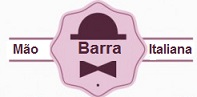
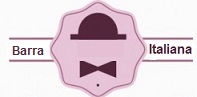
atualizei imagens e pagina tamanho 360

Changed region(s): [[0.3959, 0.4021, 0.6396, 0.5567], [0.0609, 0.433, 0.2437, 0.5876]]

diff --git a/index.html b/index.html
@@ -190,7 +190,7 @@
       <div class="row">
           <div class="col-lg-6 col-md-6 col-sm-6">
             <h2>Sobre Ateliê Malvinas<br/> </h2>
-            <p> O nome Malvina veio de sua mãe, e por isso que foi escolhido. O ateliê foi sempre um sonho, que hoje foi possível. E isso só aconkteceu
+            <p> O nome Malvina veio de sua mãe, e por isso que foi escolhido. O ateliê foi sempre um sonho, que hoje foi possível. E isso só aconteceu
               devido o trabalho bem feito.
             </p>
           </div>
@@ -207,15 +207,14 @@
           <div class="col-lg-6 col-md-6 col-sm-6">
 
             <h2>Nossa História<br/> </h2>
-            <p>Há quase três anos comecei a me especializar em consertos <br/>
-              de roupas. E nesse período comecei a atender consertos para <br/>
-              empresas e pessoas. Porém, como já trabalhei com molagem e <br/>
-              peça piloto surgiram roupas sob medida.
+            <p>Há quase três anos Vera começou a se especializar em consertos <br/>
+              de roupas. E nesse período começou a atender consertos para <br/>
+              empresas e pessoas.
             </p>
             <h2>Nossa Experiência<br/> </h2>
-            <p> Trabalho desde os 24 anos com costura.Com mais de 30 anos <br/>
+            <p> Vera trabalha desde os 24 anos com costura.Com mais de 30 anos <br/>
                de experiência como costureira piloteira e atualmente <br/>
-               trabalhando com consertos e roupas sob medida.
+               trabalhando com consertos e ajustes.
             </p>
             <h2>Nossa Compromisso<br/> </h2>
             <p> Qualidade nos acabamentos e no bom gosto.
@@ -245,66 +244,66 @@
               <div class="row">
                 <br>
                 <div class="row slideanim">
-                  <div class="col-sm-4">
+                  <div class="col-sm-4 single_contact_feaured wow fadeInUp">
                      <img src="img/service1.jpg" alt="" />
-                    <h4>Sob Medida</h4>
-                    <p>Usando modelos de roupas ou modelagem propria.</p>
+                    <h4>Barra de Mão</h4>
+                    <p>É usada para calça social onde a Barra de Mão é invível.</p>
                   </div>
-                  <div class="col-sm-4">
+                  <div class="col-sm-4 single_contact_feaured wow fadeInUp" >
                     <img src="img/service2.jpg" alt="" />
                     <h4>Barras Original e Barra de Lenço</h4>
                     <p>Barra original onde conserva-se as caracteristicas da original, Barra de Lenço é bem fina usada para vestido de festa</p>
                   </div>
-                  <div class="col-sm-4">
+                  <div class="col-sm-4 single_contact_feaured wow fadeInUp">
                     <img src="img/service10.jpg" alt="" />
-                    <h4>Barra de Mão e Barra Italiana</h4>
-                    <p>Ambas são usadas para calça social, porém a Barra de Mão é invível e a Italiana é virada para fora.</p>
+                    <h4> Barra Italiana</h4>
+                    <p>É usada para calça social onde a barra Italiana é virada para fora.</p>
                   </div>
                 </div><br/>
                 <div class="row slideanim">
-                  <div class="col-sm-4">
+                  <div class="col-sm-4 single_contact_feaured wow fadeInUp">
                      <img src="img/service11.jpg" alt="" />
                     <h4>Barra Galoneira e Barra com Viés</h4>
                     <p>Barra galoneira usada para malha e Barra com viés usada para aumentar.</p>
                   </div>
-                  <div class="col-sm-4">
+                  <div class="col-sm-4 single_contact_feaured wow fadeInUp">
                     <img src="img/service12.jpg" alt="" />
                     <h4>Barra simples</h4>
                     <p>Barra Simples apenas leve virada fazendo costura simples.</p>
                   </div>
-                  <div class="col-sm-4">
+                  <div class="col-sm-4 single_contact_feaured wow fadeInUp">
                     <img src="img/service3.jpg" alt="" />
                     <h4>Zíper</h4>
                     <p>Troca de zíper.</p>
                   </div>
                 </div><br/>
                 <div class="row slideanim">
-                  <div class="col-sm-4">
+                  <div class="col-sm-4 single_contact_feaured wow fadeInUp">
                            <img src="img/service4.jpg" alt="" />
                     <h4>Reforma</h4>
                     <p>Modificação do estilo de um vestido de festa.</p>
                   </div>
-                  <div class="col-sm-4">
+                  <div class="col-sm-4 single_contact_feaured wow fadeInUp">
                    <img src="img/service5.jpg" alt="" />
                   </div>
-                  <div class="col-sm-4">
+                  <div class="col-sm-4 single_contact_feaured wow fadeInUp">
                    <img src="img/service6.jpg" alt="" />
                     <h4>Reforma</h4>
                     <p>Modificação do estilo de uma roupa.</p>
                   </div>
                 </div><br/>
                 <div class="row slideanim">
-                  <div class="col-sm-4">
+                  <div class="col-sm-4 single_contact_feaured wow fadeInUp">
                          <img src="img/service7.jpg" alt="" />
                     <h4>Conserto</h4>
                     <p>Ajuste e troca de zíper para couro.</p>
                   </div>
-                  <div class="col-sm-4">
+                  <div class="col-sm-4 single_contact_feaured wow fadeInUp">
                          <img src="img/service8.jpg" alt="" />
                     <h4>Ajuste</h4>
                     <p>Adaptar a roupa à anatomia de quem usa.</p>
                   </div>
-                  <div class="col-sm-4">
+                  <div class="col-sm-4 single_contact_feaured wow fadeInUp">
                          <img src="img/service9.jpg" alt="" />
                     <h4>Pregar botões</h4>
                     <p>Pregar botões em calças, saias, vestidos, camisas, bermudas e shortes.</p>
@@ -349,7 +348,7 @@
            <div class="single_contact_feaured wow fadeInUp">
              <i class="fa fa-phone"></i>
              <h4>Telefone</h4>
-             <p>(11)9-5478-4013</p>
+             <p>(11)9 5478-4013</p>
              <p>(11)4138-5691</p>
            </div>
          </div>
@@ -358,7 +357,7 @@
            <div class="single_contact_feaured wow fadeInUp">
              <i class="fa fa-envelope-o"></i>
              <h4>Email</h4>
-             <p>@gmail.com</p>
+             <p>ateliemalvinas@gmail.com</p>
            </div>
          </div>
          <!-- BEGAIN CALL US FEATURE -->
@@ -390,21 +389,12 @@
          <div class="row">
            <div class="col-lg-4 col-md-4 col-sm-4">
              <div class="footer_left">
-				<!--=========== Designed By WpFreeware Team ================-->
-               <p>Contato</p>
-    			   <!--=========== Designed By WpFreeware Team ================-->
-             <p><i class="fa fa-envelope-o fa-lg"></i>
-               carlardsouza@gmail.com
-             </p>
-             <p><i class="fa fa-phone fa-lg"></i>
-              (81)9 9476-9525
-             </p>
-             </div>
+				     </div>
            </div>
 
            <div id="autor" class="col-lg-4 col-md-4 col-sm-4">
 
-           <p>&copy; Copyright Carla Soares 2017</p>
+           <p>&copy; Copyright Ateliê Malvinas 2017</p>
            </div>
            <div class="col-lg-4 col-md-4 col-sm-4">
              <div class="footer_right">

diff --git a/style.css b/style.css
@@ -1418,13 +1418,13 @@ textarea .form-control {
 @media(max-width:360px ){
   .imglogo{padding-right: 10px;padding-left: 10px;}
   .control img { top: 210px;}
-  .superior1{width: 100%; height: 25%;}
+  .superior1{width: 100%; height: 30%;}
   .superior2{width:90%; height:40%;top:180px;}
   .superior1 h2{font-size: 0.75em;}
   .superior1 p {font-size: smaller;}
   .superior2 h3{font-size: 1.0em;}
   .imglinhatop{ max-width:300px;max-height:600px;width: auto;height: auto;}
-  .imglinhafoot{ max-width:99px;max-height:100px;width: auto;height: auto; position:absolute;top:515px;left:90px}
+  .imglinhafoot{ max-width:0px;max-height:100px;width: auto;height: auto; position:absolute;top:515px;left:90px}
   #about h2{font-size: 1.5em}
 	.slider_caption {margin-top: 28%;}
 	.slider_caption > a {margin-top: 10px;}
